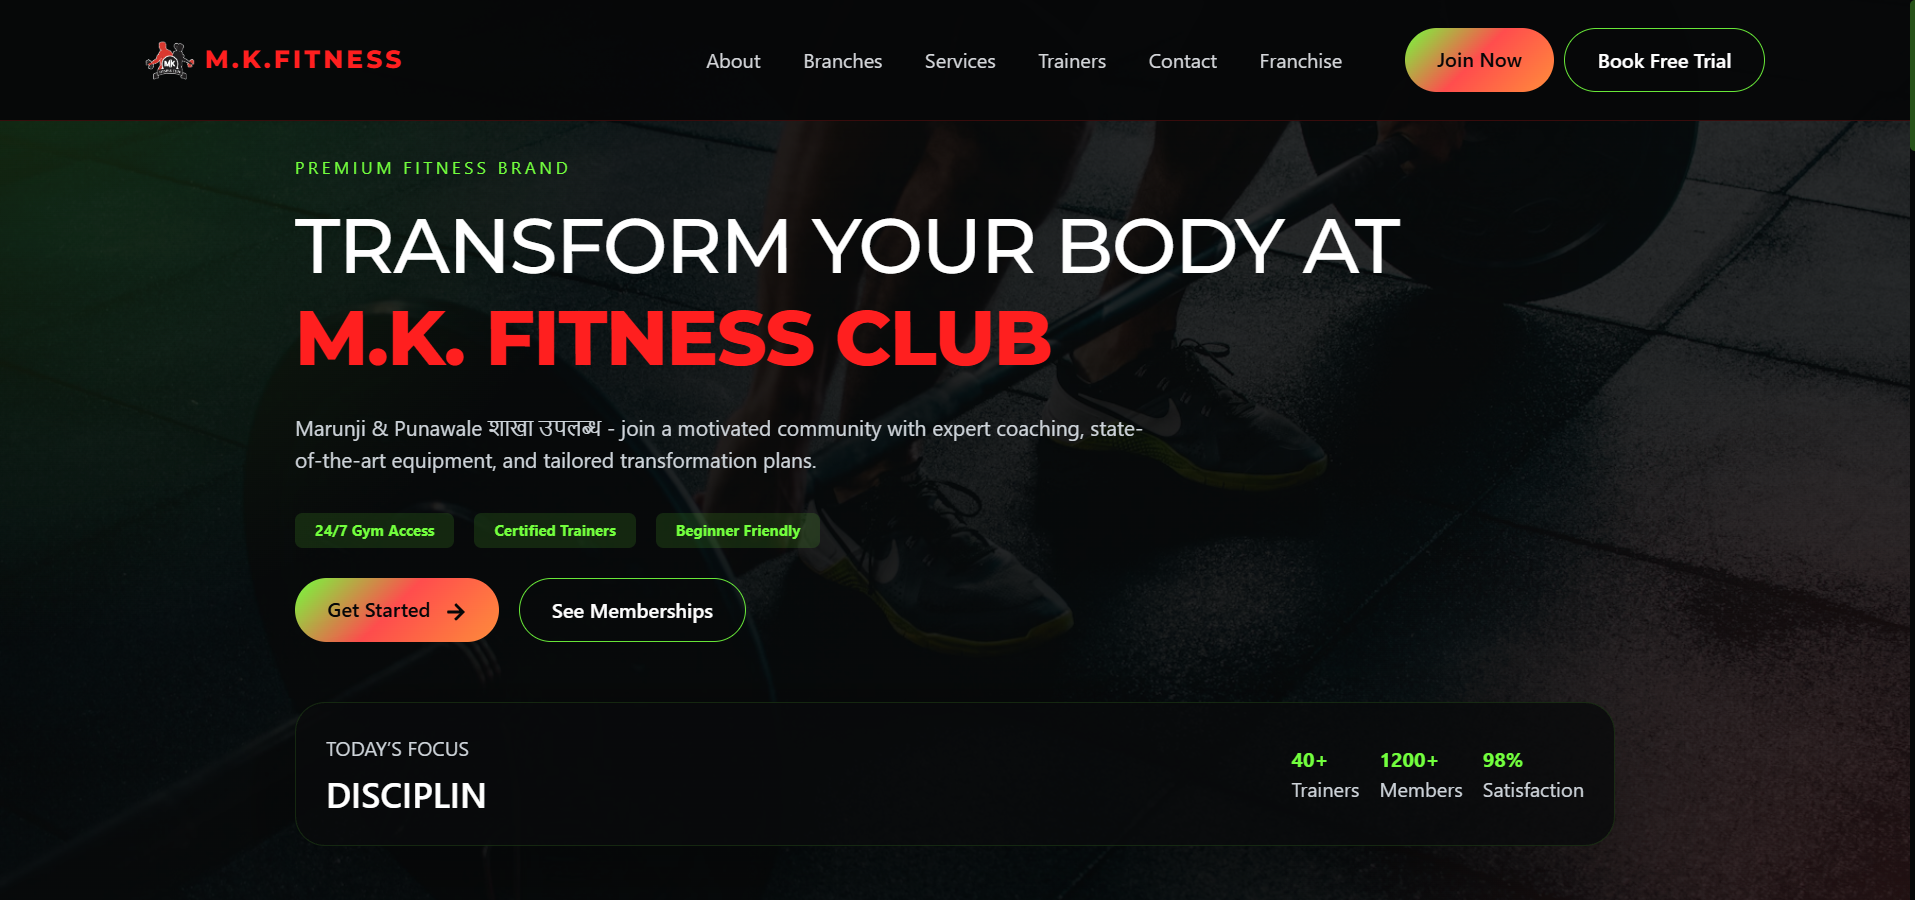
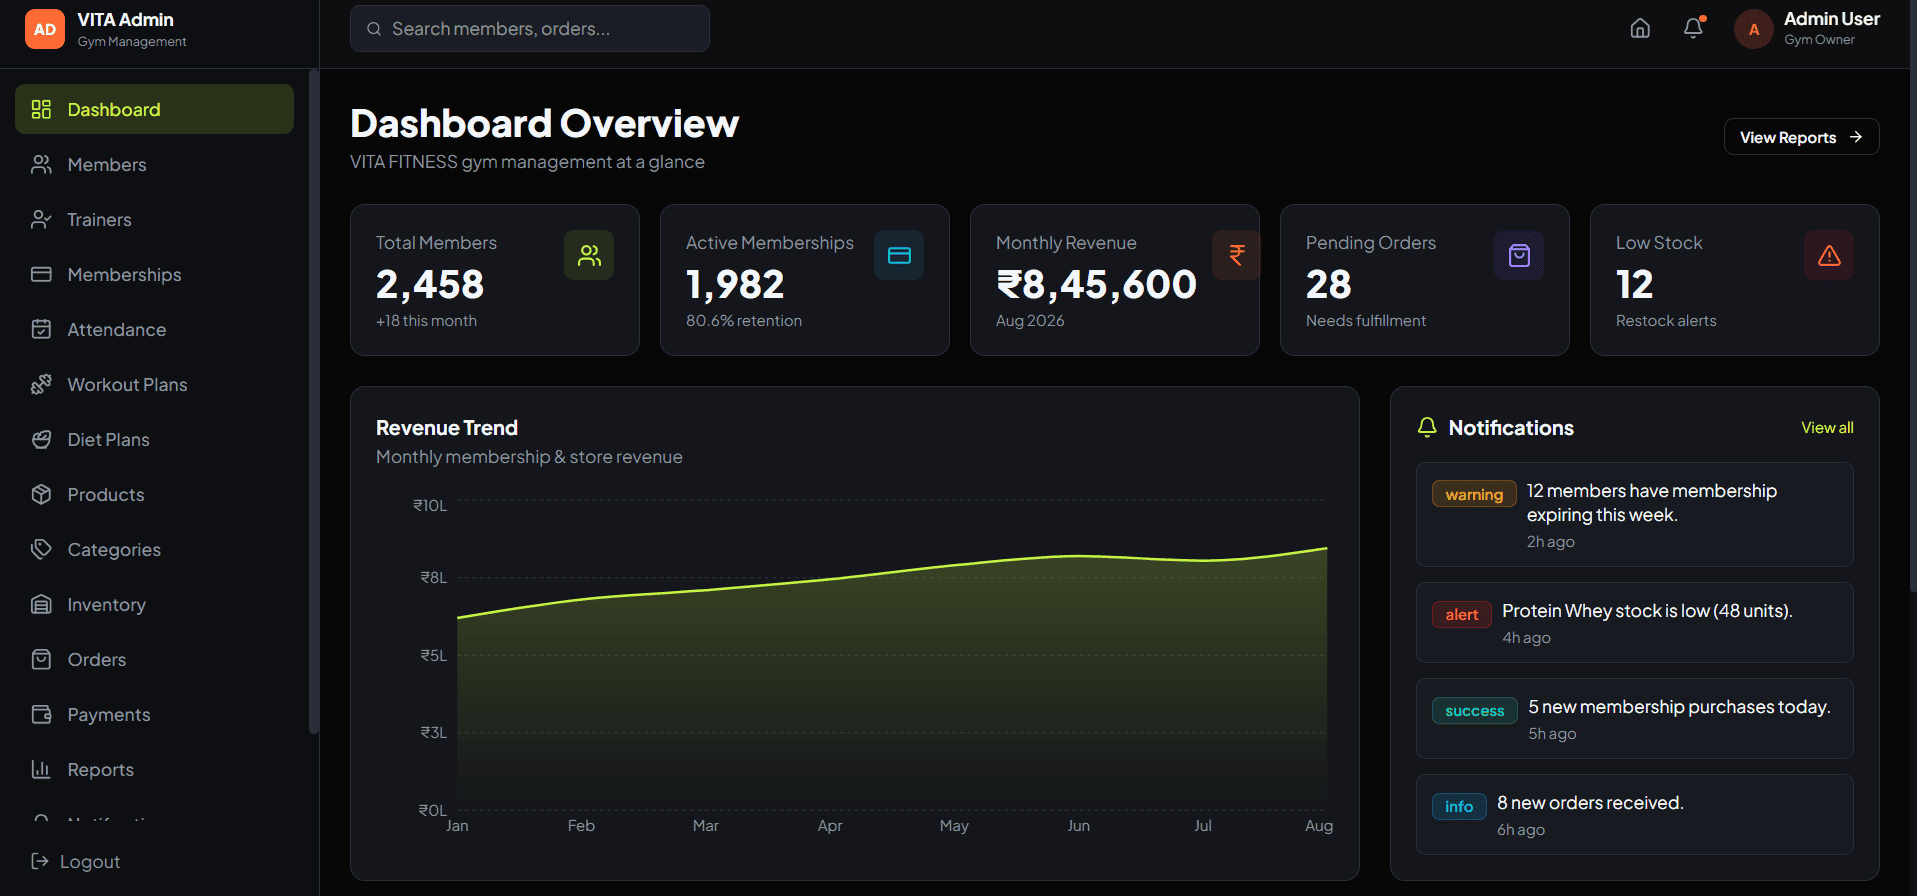
Project added

diff --git a/src/pages/ProjectsPage.jsx b/src/pages/ProjectsPage.jsx
@@ -13,6 +13,9 @@ import medicoCareImg from '../assets/images/MedicoCare.png';
 import solvenImg from '../assets/images/Solven.png';
 import sssBhoomImg from '../assets/images/sssbhoom.png';
 import scaleAlphaImg from '../assets/images/scalealpha.jpeg';
+import goldShopImg from '../assets/images/gold_shop.png';
+import fashTrendImg from '../assets/images/fashtrend.png';
+import alignaaImg from '../assets/images/alignaa.jpeg';
 
 const allProjects = [
   {
@@ -27,6 +30,28 @@ const allProjects = [
     tech: ['SEO', 'Next.js', 'Tailwind'],
   },
   {
+    title: 'FashTrend Custom',
+    cat: 'E-Commerce',
+    type: 'Client Project',
+    industry: 'Apparel & Fashion',
+    desc: 'An e-commerce platform for custom T-shirts and personalized apparel offering bulk ordering and customized printing.',
+    outcome: 'Streamlined online storefront with easy product discovery and custom ordering flow',
+    image: fashTrendImg,
+    link: 'https://fashtrendcustom.in/',
+    tech: ['React', 'E-Commerce', 'Responsive UI'],
+  },
+  {
+    title: 'Alignaa Clear Aligners',
+    cat: 'Website',
+    type: 'Client Project',
+    industry: 'Healthcare & Dental',
+    desc: 'A professional platform for clear aligners focused on dental professionals, showcasing clinical expertise and digital orthodontic solutions.',
+    outcome: 'Modern digital presence that establishes trust and connects with dental professionals',
+    image: alignaaImg,
+    link: 'https://www.alignaa.in/',
+    tech: ['React', 'SEO', 'Responsive UI'],
+  },
+  {
     title: 'Elite Academy',
     cat: 'Website',
     type: 'Demo Showcase',
@@ -38,19 +63,19 @@ const allProjects = [
     tech: ['React', 'Node.js', 'MongoDB'],
   },
   {
-    title: 'MK Fitness',
-    cat: 'Website',
+    title: 'Gym Management System',
+    cat: 'Web App',
     type: 'Client Project',
     industry: 'Fitness',
-    desc: 'A premium fitness website for showcasing personal training, group classes, strength training, and gym locations.',
-    outcome: 'Live gym website with program discovery, branch details, and quick inquiry flow',
+    desc: 'An all-in-one gym management platform designed to streamline member registrations, subscription tracking, and class scheduling.',
+    outcome: 'Integrated fitness portal with seamless class discovery, membership management, and administrative controls',
     image: gymImg,
-    link: 'https://www.mkfitness.in/',
+    link: 'https://vita-fitness-demo-9o4n.vercel.app/',
     tech: ['React', 'SEO', 'Responsive UI'],
   },
   {
     title: 'Shri SSS Sanstha',
-    cat: 'Website',
+    cat: 'SEO',
     type: 'Client Project',
     industry: 'NGO',
     desc: 'A nonprofit website for a Maharashtra-based NGO focused on education, healthcare, social welfare, disaster relief, and volunteer service.',
@@ -60,8 +85,19 @@ const allProjects = [
     tech: ['React', 'SEO', 'Responsive UI'],
   },
   {
+    title: 'HEMAIRA HAUTE JOAILLERIE',
+    cat: 'SEO',
+    type: 'Demo Showcase',
+    industry: 'Jewelry & Luxury',
+    desc: 'High-end Indian luxury gold and diamond jewelry E-Commerce platform crafted for bespoke royal Kundan, Polki, Solitaires and Temple creations.',
+    outcome: 'Premium shopping experience with elegant product discovery and inquiry flow',
+    image: goldShopImg,
+    link: 'https://gold-shop-demo-murex.vercel.app/',
+    tech: ['React', 'Tailwind', 'E-Commerce'],
+  },
+  {
     title: 'Estate Elite',
-    cat: 'Website',
+    cat: 'Web App',
     type: 'Demo Showcase',
     industry: 'Real Estate',
     desc: 'A premium property listing experience designed for faster browsing, inquiry capture, and visual storytelling.',
@@ -134,7 +170,7 @@ const allProjects = [
   },
   {
     title: 'MedicoCare Delivery',
-    cat: 'Website',
+    cat: 'Web App',
     type: 'Demo Showcase',
     industry: 'Healthcare',
     desc: 'A healthcare delivery website concept for pharmacy, supplies, trust-building content, and quick inquiries.',
